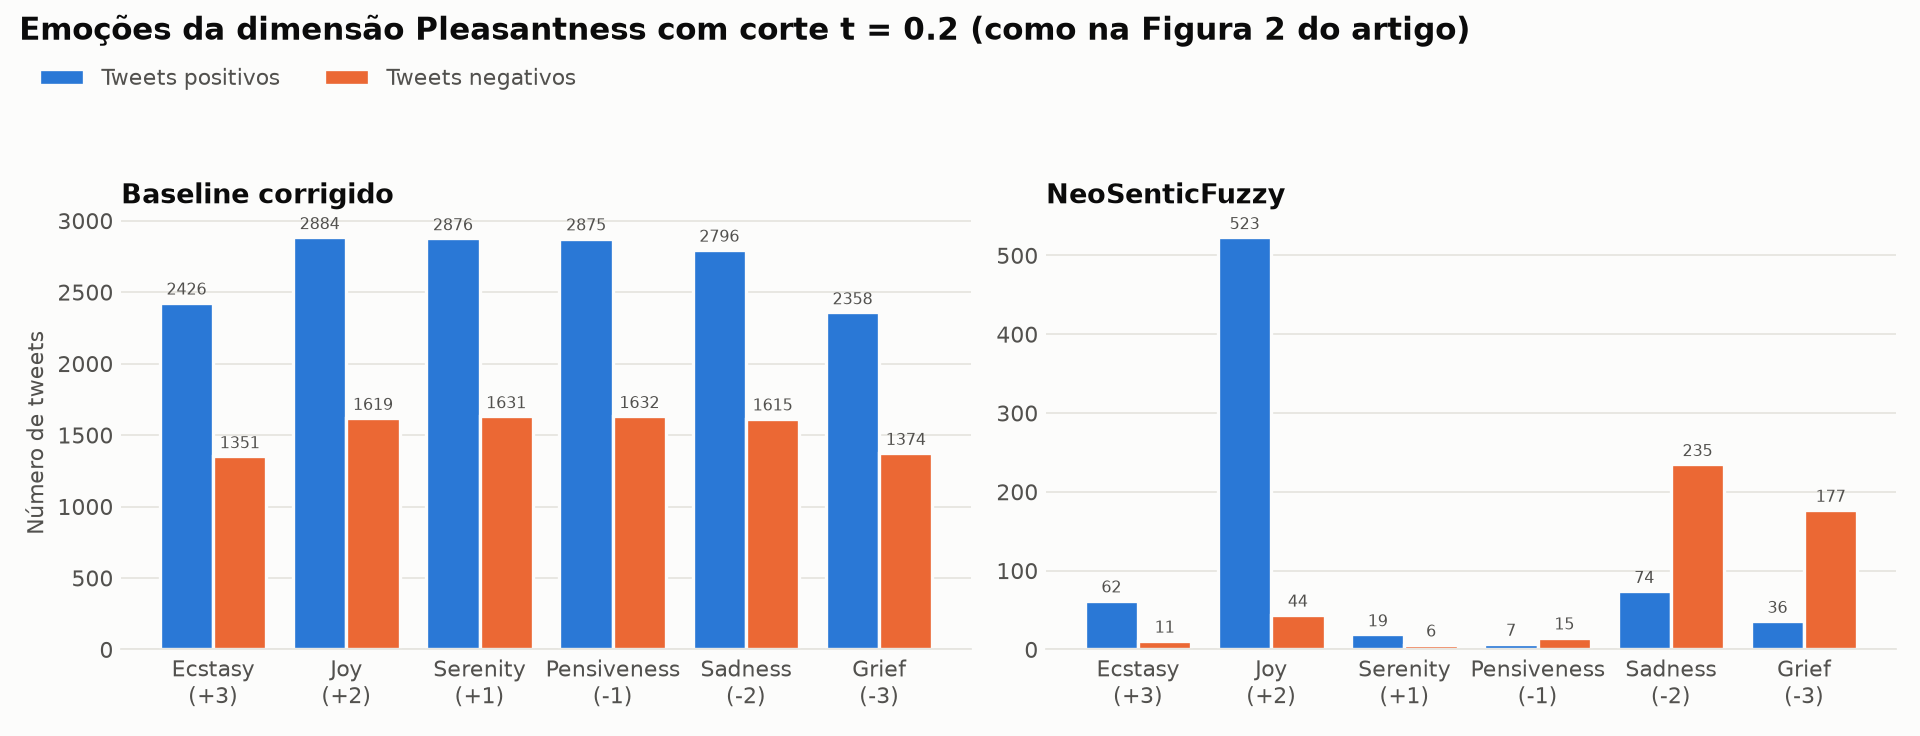
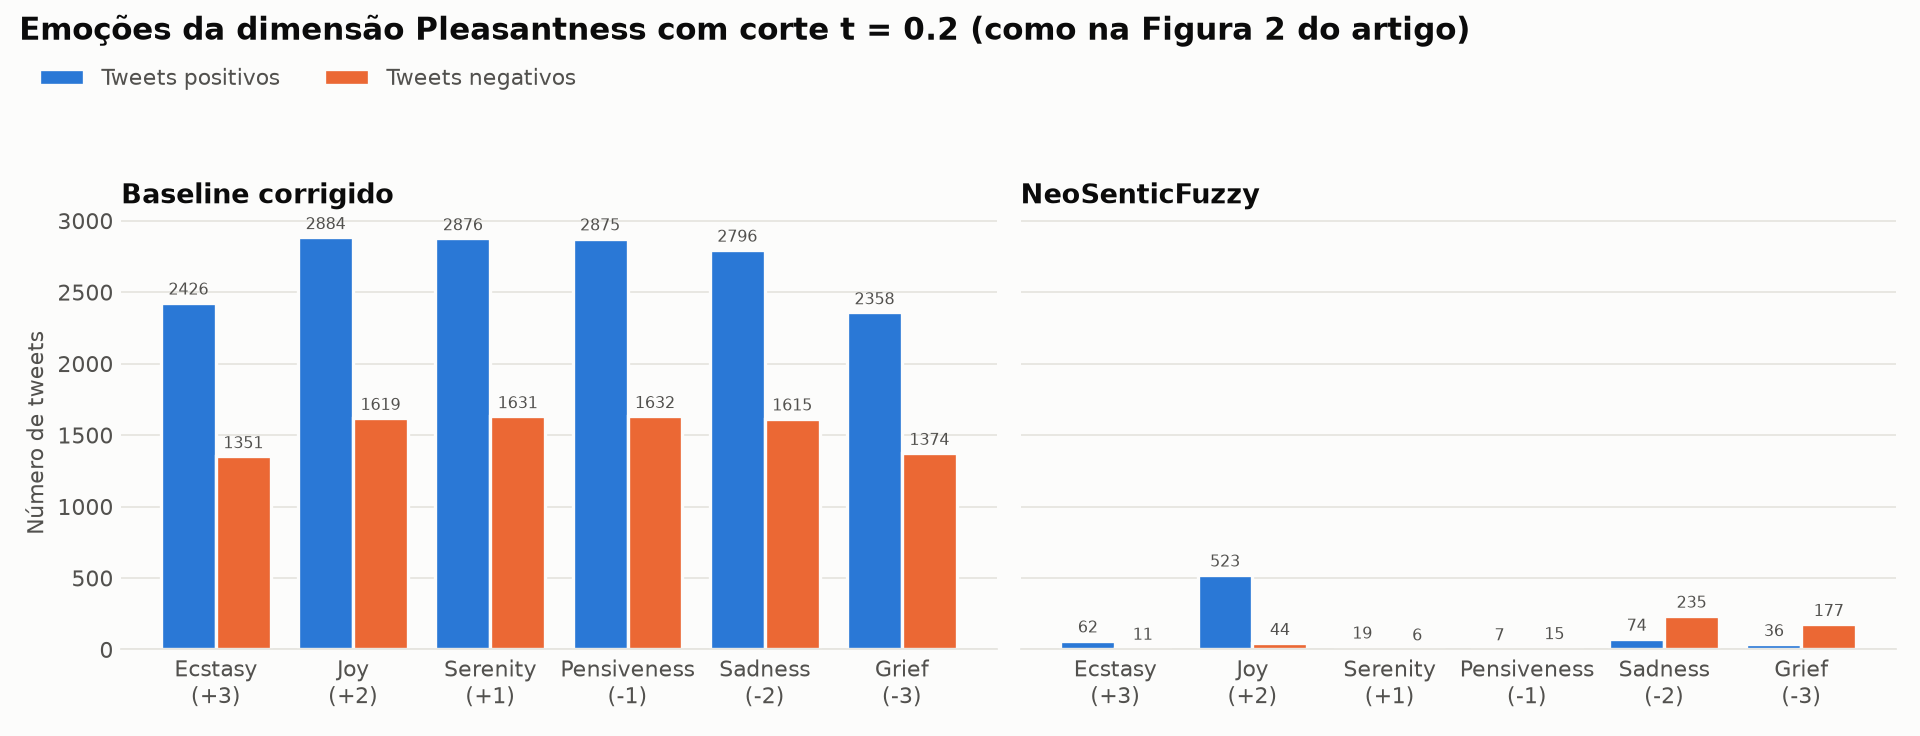
fix(evaluation): usa a mesma escala nos painéis do gráfico de emoções

diff --git a/run_plots.py b/run_plots.py
@@ -98,7 +98,7 @@ def figure_precision_recall(models: dict[str, pd.DataFrame], path: Path) -> None
 
 
 def figure_emotions(path: Path) -> None:
-    fig, axes = plt.subplots(1, 2, figsize=(12, 4.6))
+    fig, axes = plt.subplots(1, 2, figsize=(12, 4.6), sharey=True)
     for ax, (name, file) in zip(axes, [
         ("Baseline corrigido", "fig2_LoiaSenatore_2014.csv"),
         ("NeoSenticFuzzy", "fig2_NeoSenticFuzzy.csv"),
